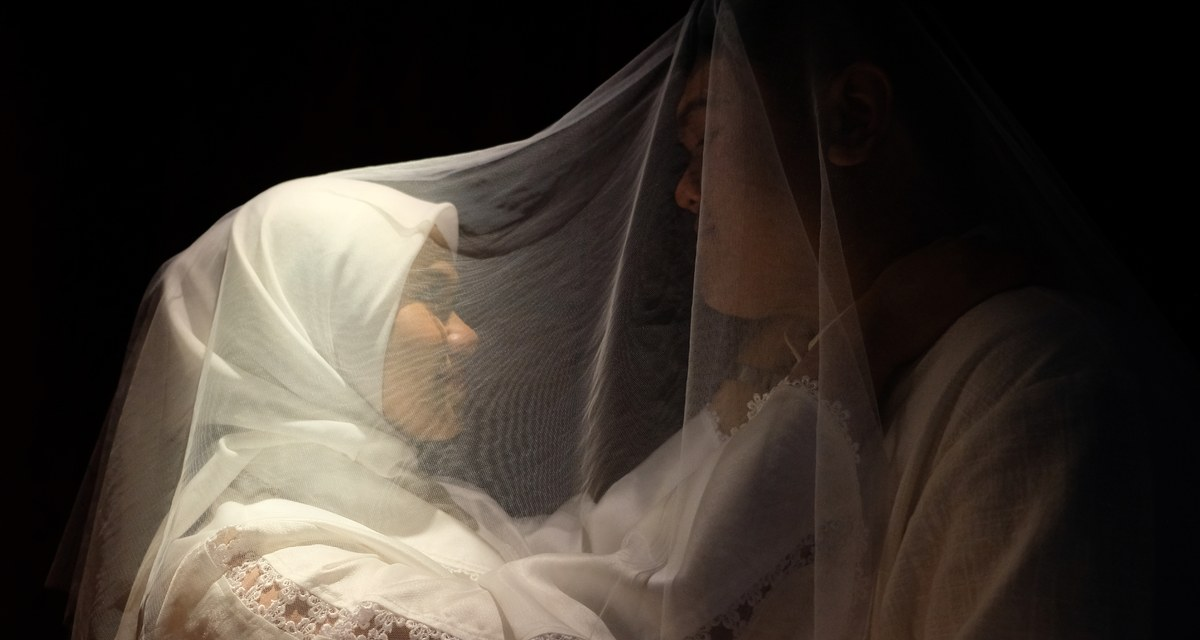
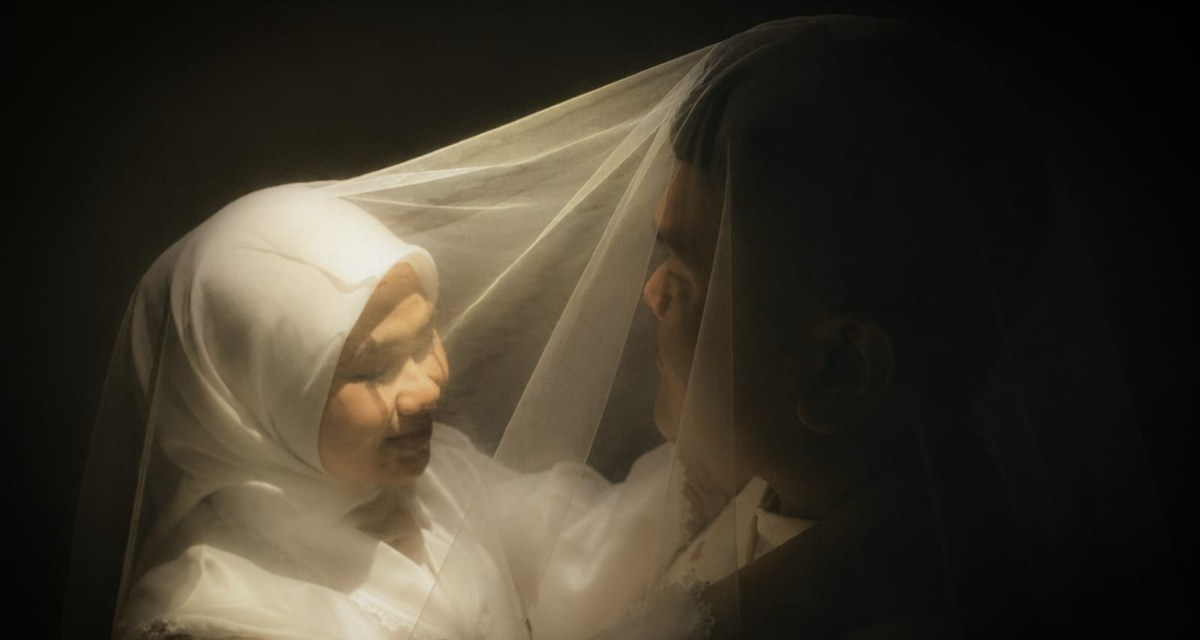
chore: remove wedding game (journey) + update OG image

diff --git a/components/wedding/invitation-message.tsx b/components/wedding/invitation-message.tsx
@@ -32,9 +32,9 @@ export function InvitationMessage() {
             delay: reduceMotion ? 0 : 0.3,
             ease: easeLuxury,
           }}
-          className="whitespace-nowrap overflow-visible py-2 font-geographica leading-[1.6] text-cream text-[clamp(1.5rem,4.9vw,5.2rem)]"
+          className="whitespace-nowrap overflow-visible py-2 font-poppins font-light tracking-[0.1em] leading-[1.6] text-cream text-[clamp(0.95rem,3vw,2.4rem)]"
         >
-          As one chapter is preserved for a lifetime,
+          Together with our families,
         </motion.p>
         <motion.p
           initial={{ opacity: 0, y: 24 }}

diff --git a/lib/supabase.ts b/lib/supabase.ts
@@ -66,15 +66,16 @@ export type Wish = {
 
 export type PublicWish = Omit<Wish, 'ip_address' | 'user_agent' | 'is_hidden'>
 
+// lib/supabase.ts (only the SiteSettings block changes)
 export type SiteSettings = {
   id: number
   delivery_recipient: string
   delivery_phone: string
   delivery_address: string
   delivery_notes: string
-  bca_account_number: string
-  bca_account_name: string
+  bank_name: string
+  bank_account_number: string
+  bank_account_holder: string
   updated_at: string
 }
-
 export type PublicSiteSettings = Omit<SiteSettings, 'id' | 'updated_at'>

diff --git a/lib/wedding-config.ts b/lib/wedding-config.ts
@@ -8,7 +8,7 @@ export const wedding = {
   groom: {
     name: 'Kelvin Muliawan',
     shortName: 'Kelvin',
-    bio: "The beloved first son of Mrs. Indri, the late Mr. Herman Tedja Muliawan, and his step father Mr. Achmad Hidayat.\n\nSoon to be Annisa's husband.",
+    bio: "The beloved first son of Mrs. Indri, the late Mr. Herman Tedja Muliawan, and his stepfather Mr. Achmad Hidayat.\n\nSoon to be Annisa's husband.",
     photo: '/images/groom-frame.png',
   },
   date: {
